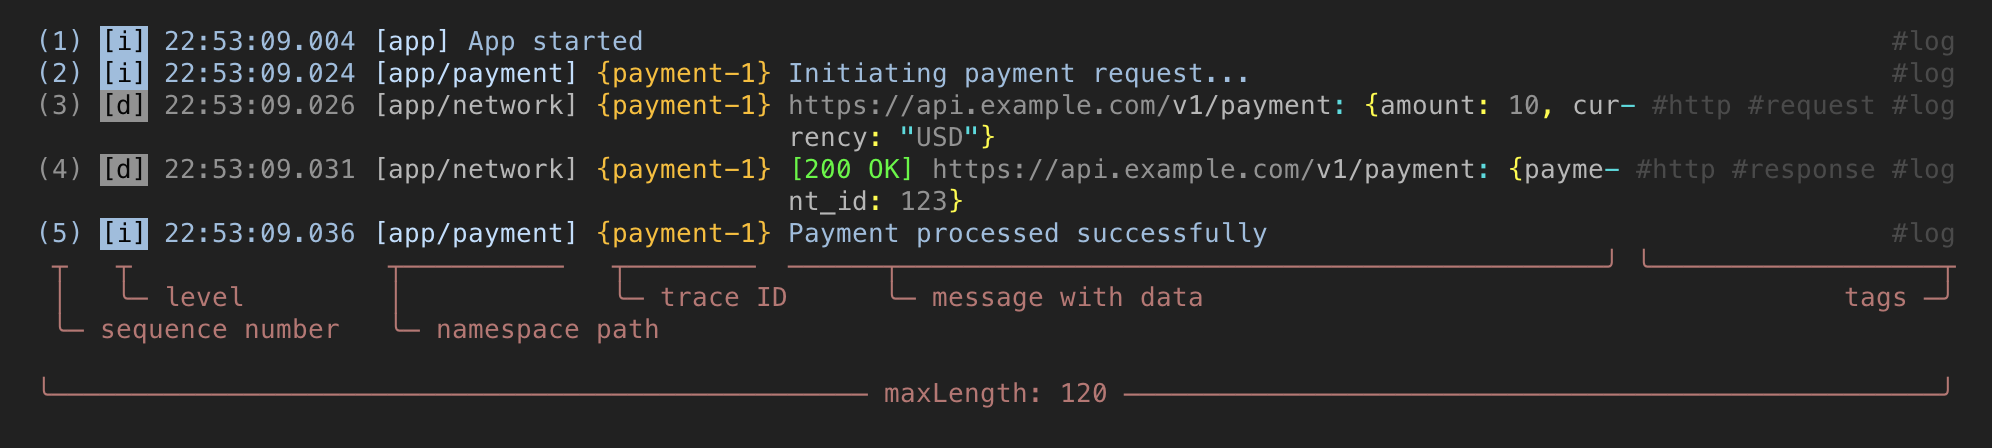
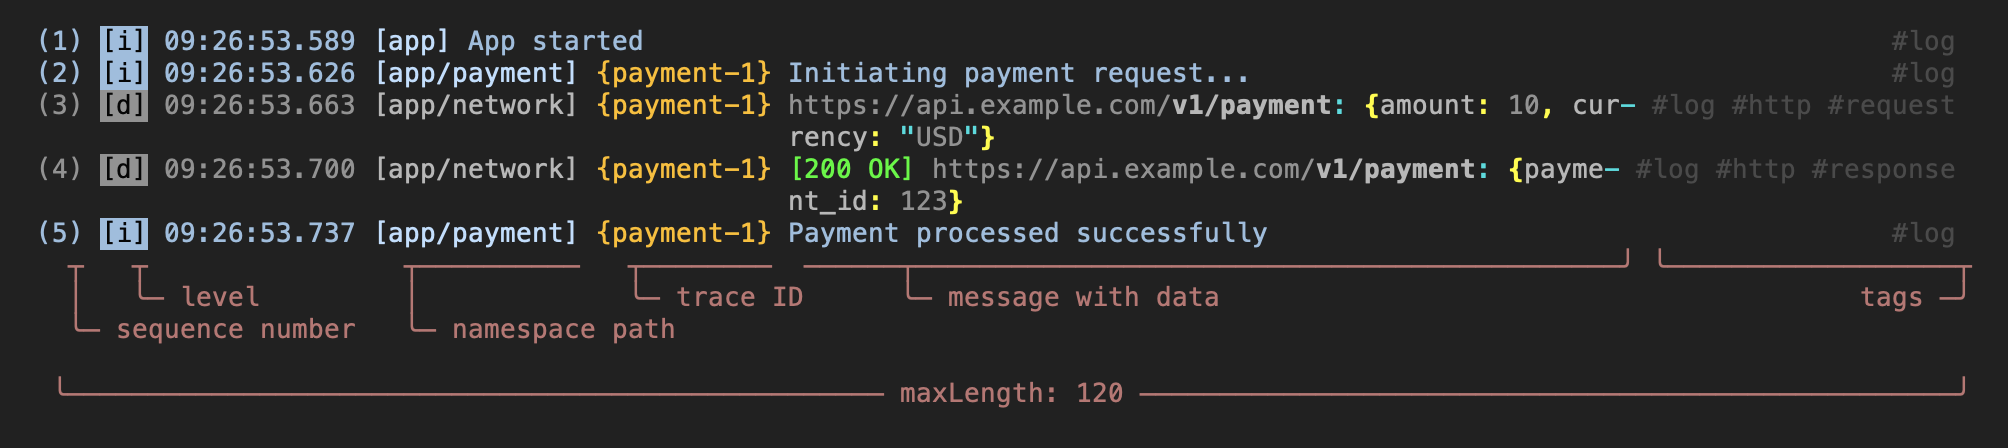
feat(example): rebuild quick_start as frames
The only group that could not be cut: it has no section headings, and
frames 2–4 show the same run filtered three ways by machinery that was
never in the file — it was configured by hand at shoot time.

Filtering turned out not to be the active/inactive theme, which only dims:
the pictures keep the original log numbers with whole lines missing, so
the logs were created and the row declined to render them. That is
LogRow.when, and the three frames now use it — by num, by trace id, by
tag — with the logger rebuilt per frame around it.

The two annotations lay commented out in the file: the column diagram
under the logs and the "Filter:" box above them. Both are printed by their
frames now, the box built from the same literal with the value padded into
it, so the alignment the pictures have is the alignment the code produces.

diff --git a/example/bin/readme_examples/quick_start.dart b/example/bin/readme_examples/quick_start.dart
@@ -1,61 +1,98 @@
+import 'package:example/readme_examples/frames.dart';
 import 'package:team_logger/team_logger.dart';
 
-// Initialize the logger with a custom layout
-final log = Logger('app')
-  ..level = LogLevels.all
-  ..publisher = ConsoleLogPrinter(
-    theme: LogMainTheme.defaultActiveTheme,
-    rows: const [
-      LogRow(
-        maxLength: 120,
-        children: [
-          LogNum(),
-          LogLevelName.short(),
-          LogTime.onlyTime(),
-          LogPath(),
-          LogTraceId(),
-          LogMessage(),
-        ],
-        tail: [
-          LogTags(),
-        ],
-      ),
-    ],
-  );
+final frames = <String, LogFrame>{
+  'quick_start_1': _quickStart,
+  'quick_start_2': _filterByNum,
+  'quick_start_3': _filterByTraceId,
+  'quick_start_4': _filterByTag,
+};
 
-Future<void> main() async {
-  // For README: add filter field
-  // print(
-  //   Styles.rgb122('''
-  //                                                                                 ╭────────────────────────────────────╮
-  //                                                                         Filter: │ (4)                                │
-  //                                                                                 ╰────────────────────────────────────╯'''),
-  // );
+void main(List<String> args) => runFrames(frames, args);
 
+late Logger log;
+
+/// Собирает логгер приложения; [when] решает, какие логи попадут в кадр.
+///
+/// Кадры 2–4 показывают один и тот же прогон, из которого напечатана
+/// только часть логов. Отсеивает именно строка раскладки ([LogRow.when]),
+/// а не логгер: логи создаются все, поэтому их номера в кадре сохраняют
+/// исходный порядок.
+void _initLog({bool Function(Log log)? when}) {
+  log = Logger('app', tags: {'log'})
+    ..level = LogLevels.all
+    ..publisher = ConsoleLogPrinter(
+      theme: LogMainTheme.defaultActiveTheme,
+      rows: [
+        LogRow(
+          when: when,
+          maxLength: 120,
+          children: const [
+            LogNum(),
+            LogLevelName.short(),
+            LogTime.onlyTime(),
+            LogPath(),
+            LogTraceId(),
+            LogMessage(),
+          ],
+          tail: const [
+            LogTags(),
+          ],
+        ),
+      ],
+    );
+}
+
+/// Один платёж целиком: старт, дочерние логгеры, trace-зона.
+Future<void> _quickStart() async {
+  _initLog();
+  await _payment();
+
+  print(Styles.rgb311('''
+  ┬   ┬                ┬──────────   ┬────────  ──────┬────────────────────────────────────────────╯ ╰──────────────────┬
+  │   ╰─ level         │             ╰─ trace ID      ╰─ message with data                                        tags ─╯
+  ╰─ sequence number   ╰─ namespace path
+
+ ╰─────────────────────────────────────────────────── maxLength: 120 ───────────────────────────────────────────────────╯'''));
+}
+
+/// Тот же прогон, из которого принтер оставил один лог по номеру.
+Future<void> _filterByNum() async {
+  print(_filterBox('(4)'));
+  _initLog(when: (log) => log.num == 4);
+  await _payment();
+}
+
+/// …по группе trace id.
+Future<void> _filterByTraceId() async {
+  print(_filterBox('{payment-1}'));
+  _initLog(when: (log) => log.traceIds.isNotEmpty);
+  await _payment();
+}
+
+/// …по тегу.
+Future<void> _filterByTag() async {
+  print(_filterBox('#http'));
+  _initLog(when: (log) => log.tags.contains('http'));
+  await _payment();
+}
+
+Future<void> _payment() async {
   log.i('App started');
 
   // Create child loggers
   final paymentLog = log.createChild(name: 'payment');
 
-  // Execute within a Trace Zone to automatically capture and output the TraceId
+  // Execute within a Trace Zone to automatically capture and output the
+  // TraceId
   await log.trace(TraceId.auto('payment'), () async {
     paymentLog.i('Initiating payment request...');
-    await payment(10, 'USD');
+    await _request(10, 'USD');
     paymentLog.i('Payment processed successfully');
   });
-
-// For README: add description of log line
-//   print(
-//     Styles.rgb311('''
-//  ┬   ┬                ┬──────────   ┬────────  ──────┬────────────────────────────────────────────╯ ╰──────────────────┬
-//  │   ╰─ level         │             ╰─ trace ID      ╰─ message with data                                        tags ─╯
-//  ╰─ sequence number   ╰─ namespace path
-
-// ╰─────────────────────────────────────────────────── maxLength: 120 ───────────────────────────────────────────────────╯'''),
-//   );
 }
 
-Future<void> payment(int amount, String currency) async {
+Future<void> _request(int amount, String currency) async {
   final networkLog = log.createChild(name: 'network', tags: {'http'});
 
   networkLog.d(
@@ -72,3 +109,10 @@ Future<void> payment(int amount, String currency) async {
     data: {'payment_id': 123},
   );
 }
+
+/// Рамка «Filter: …» над кадром: показывает, чем отфильтрован прогон.
+String _filterBox(String value) => Styles.rgb122(
+      '                                                                                ╭────────────────────────────────────╮\n'
+      '                                                                        Filter: │ ${value.padRight(35)}│\n'
+      '                                                                                ╰────────────────────────────────────╯',
+    );
